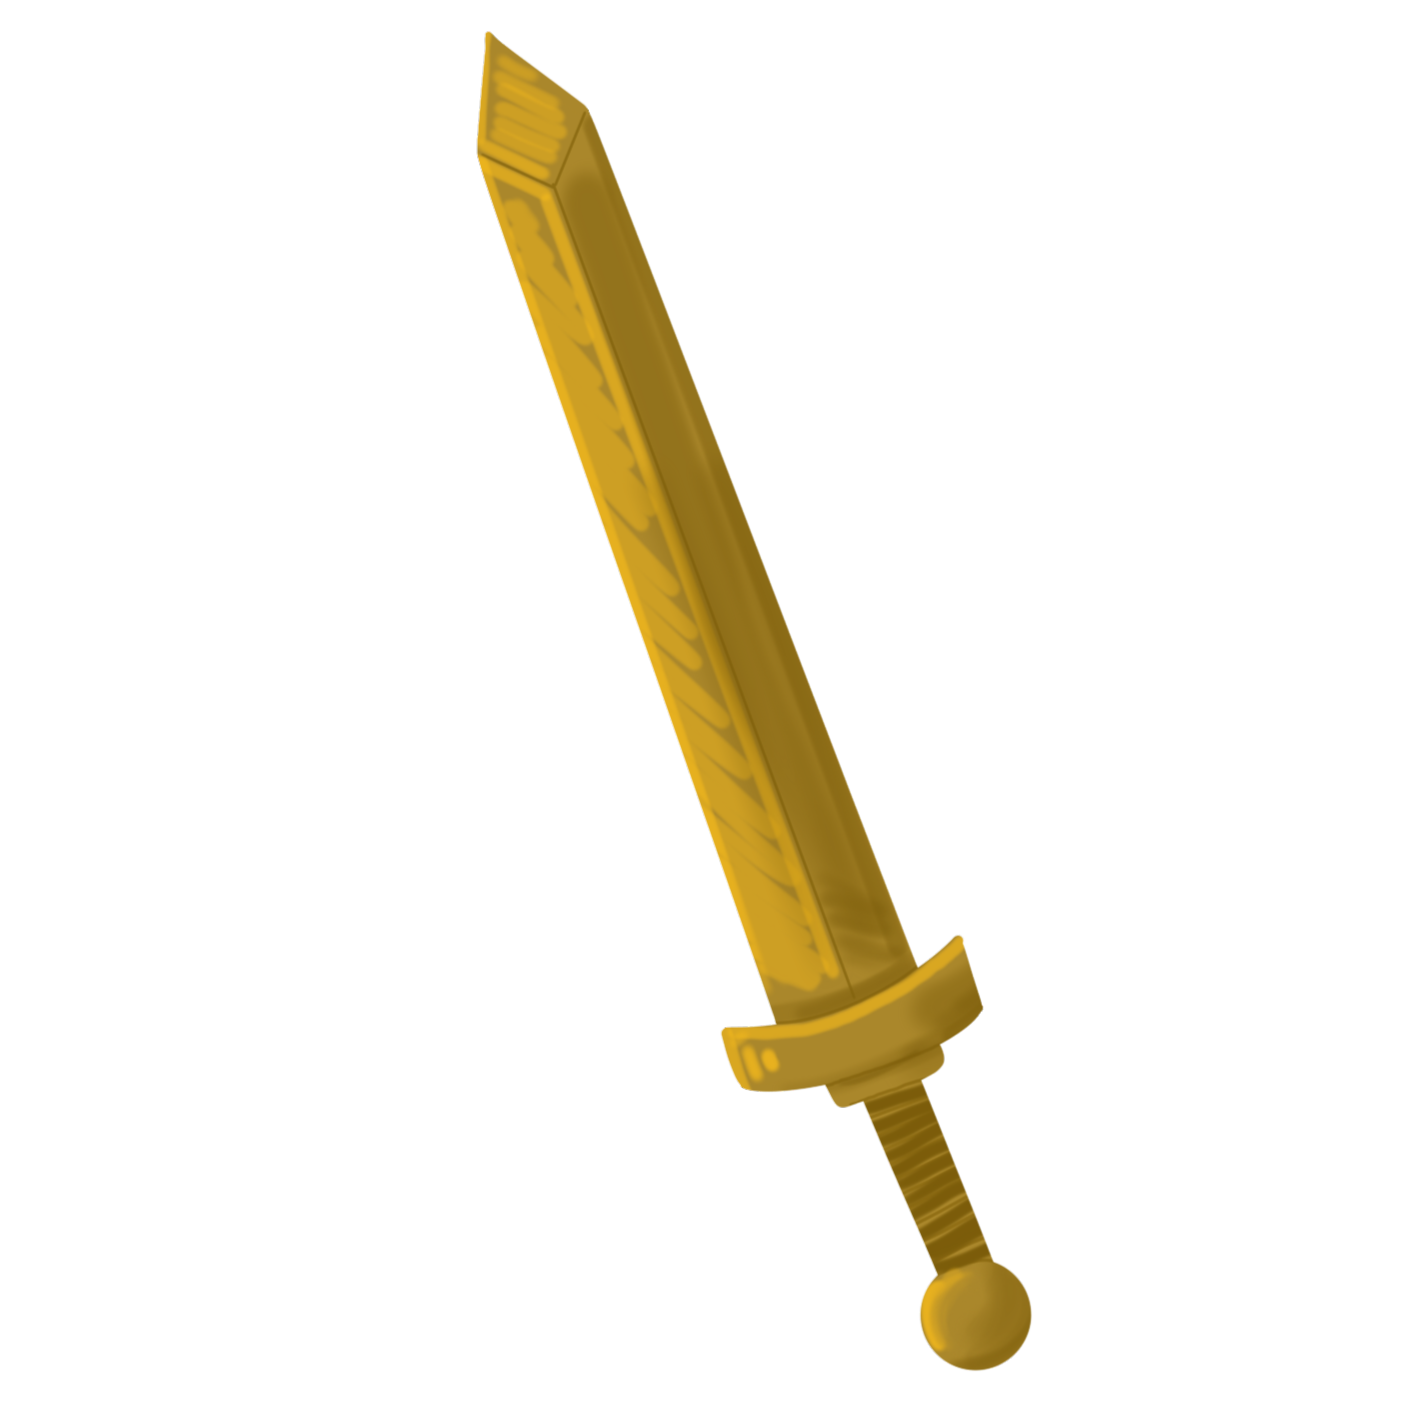
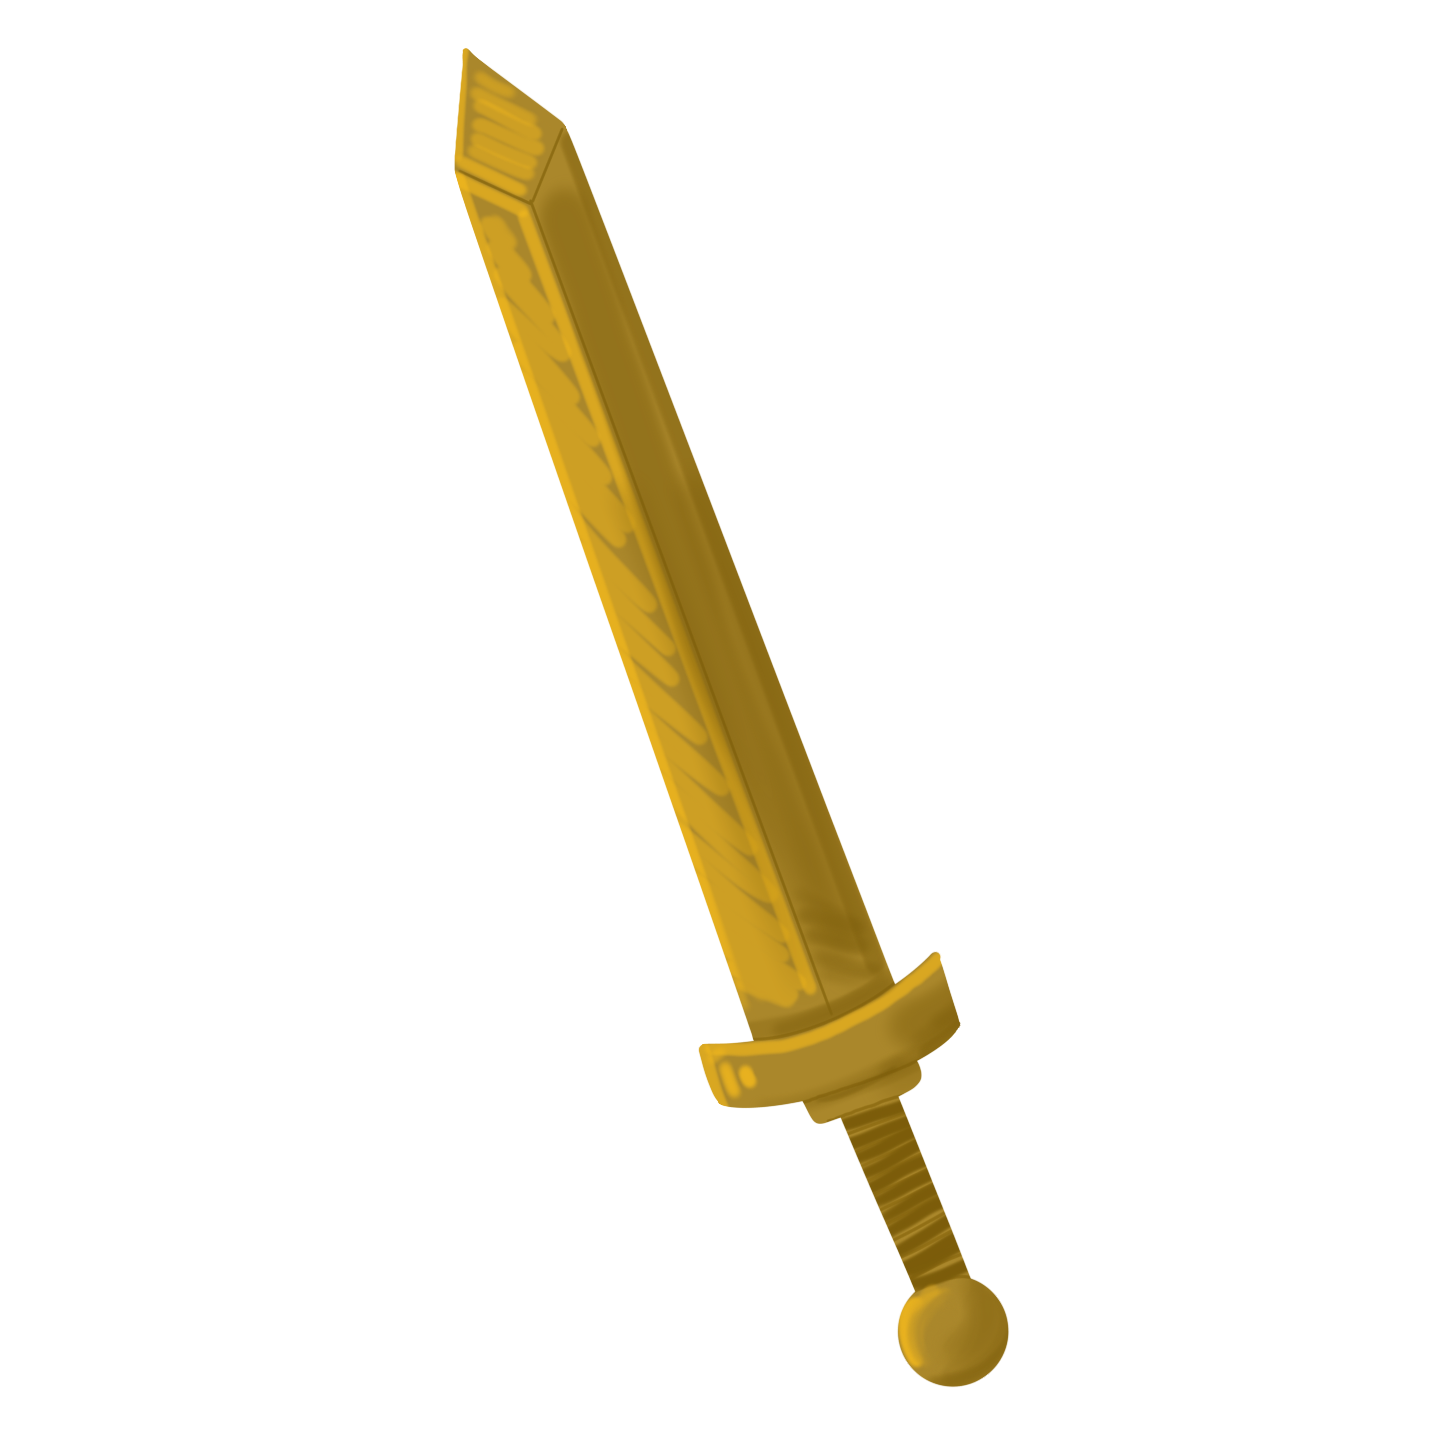
rearrange enemy order

Changed region(s): [[0.3086, 0.0309, 0.7405, 0.9565]]

diff --git a/src/data/gameData.js b/src/data/gameData.js
@@ -31,8 +31,8 @@ export const MINIBOSSES = [
   { id: 'cerberus', name: 'Cerberus', regen: 3, health: 1, boardCount: 3, wordLength: 5, effect: 'Should a dog have three heads?' },
   { id: 'mirror-spirit', name: 'Mirror Spirit', regen: 3, health: 1, wordLength: 5, boardCount: 1, effect: 'The answer (and all your guesses) must be the same forwards and backwards!' },
   { id: 'know-it-all', name: 'Know It All', regen: 3, health: 1, wordLength: 5, boardCount: 1, effect: 'The answer is a word he does not think you will know.' },
-  { id: 'slumbering-giant', name: 'Slumbering Giant', regen: 4, health: 1, wordLength: 5, boardCount: 1, effect: 'You won\'t take any damage from a wrong guess...until you wake her up.' },
-  { id: 'hydra-miniboss', name: 'Hydra', regen: 4, health: 1, wordLength: 5, boardCount: 1, effect: 'Cut off its head!' },
+  { id: 'slumbering-giant', name: 'Slumbering Giant', regen: 3, health: 1, wordLength: 5, boardCount: 1, effect: 'You won\'t take any damage from a wrong guess...until you wake her up.' },
+  { id: 'hydra-miniboss', name: 'Hydra', regen: 3, health: 1, wordLength: 5, boardCount: 2, effect: 'Cut off its head!' },
 ]
 
 export const SHOP_ITEMS = [
@@ -111,14 +111,28 @@ export const SPECIAL_ITEMS = [
 
 export const ALL_ITEMS = [...SHOP_ITEMS, ...SPECIAL_ITEMS]
 
-export const STAGE_SEQUENCE = ['enemy', 'miniboss', 'enemy']
+export const STAGE_SEQUENCE = ['enemy', 'enemy', 'miniboss']
 export const JOURNEY_LENGTH = STAGE_SEQUENCE.length + 1
+
+// Giant Slime splits into more pieces, so its journey is shortened by one regular enemy
+// to compensate for the extra boss rounds.
+const STAGE_SEQUENCE_OVERRIDES = {
+  'giant-slime': ['enemy', 'miniboss'],
+}
+
+export function getStageSequence(bossId) {
+  return STAGE_SEQUENCE_OVERRIDES[bossId] ?? STAGE_SEQUENCE
+}
+
+export function getJourneyLength(bossId) {
+  return getStageSequence(bossId).length + 1
+}
 
 export const BOSSES = [
   {
     id: 'shadow-sorcerer',
     name: 'Shadow Sorcerer',
-    health: 3,
+    health: 2,
     regen: 0,
     wordLength: 5,
     effect: 'A random letter on your first guess is hidden in shadow',
@@ -191,12 +205,11 @@ export const BOSSES = [
   {
     id: 'hydra',
     name: 'Hydra',
-    health: 3,
+    health: 2,
     regen: 0,
     wordLength: 5,
-    boardCount: 2,
+    boardCount: 4,
     rounds: [
-      { boardCount: 2, wordLength: 5 },
       { boardCount: 4, wordLength: 5 },
       { boardCount: 6, wordLength: 5 },
     ],

diff --git a/src/views/GameView.vue b/src/views/GameView.vue
@@ -161,9 +161,9 @@
           <div class="game-center">
             <!-- Journey progress -->
             <div class="text-center mb-2">
-              <p class="game-meta mb-2">Enemy {{ stage + 1 }} of {{ JOURNEY_LENGTH }}</p>
+              <p class="game-meta mb-2">Enemy {{ stage + 1 }} of {{ journeyLength }}</p>
               <div class="journey-dots mb-2">
-                <span v-for="i in JOURNEY_LENGTH" :key="i" class="journey-dot" :class="dotClass(i - 1)"></span>
+                <span v-for="i in journeyLength" :key="i" class="journey-dot" :class="dotClass(i - 1)"></span>
               </div>
             </div>
 
@@ -228,7 +228,7 @@
             </div>
 
             <div v-if="currentBoss" class="mt-3 text-center">
-              <p class="monster-text mb-0"><strong>The realm has been attacked by the {{ currentBoss.name }}:</strong>
+              <p class="game-meta mb-0"><strong>The realm has been attacked by the {{ currentBoss.name }}:</strong>
                 {{ isBossFight && currentBoss.enhancedEffect ? currentBoss.enhancedEffect : currentBoss.effect }}</p>
             </div>
 
@@ -404,6 +404,7 @@
               </div>
             </template>
             <template v-else-if="modal === 'stats'">
+              <button class="modal-close-btn" type="button" aria-label="Close" @click="modal = null">✕</button>
               <h2 class="stats-title">{{ gameResult === 'won' ? 'Quest Complete!' : 'Quest Failed' }}</h2>
               <div class="stats-body">
                 <p class="stats-label">Played as:</p>
@@ -433,7 +434,6 @@
                 <button class="btn btn-press px-5 py-2" @click="copyStats">
                   {{ copied ? '✓ Copied!' : 'Copy to Clipboard' }}
                 </button>
-                <button class="btn btn-reset px-5 py-2 mt-2" @click="restartJourney">Play Again</button>
               </div>
             </template>
             <template v-else-if="modal === 'changeling-test-pick'">
@@ -524,7 +524,7 @@
 
 <script setup>
 import { ref, computed, watch, onMounted, onUnmounted, nextTick } from 'vue'
-import { CLASSES, ENEMIES, MINIBOSSES, BOSSES, SHOP_ITEMS, ALL_ITEMS, STAGE_SEQUENCE, JOURNEY_LENGTH } from '@/data/gameData.js'
+import { CLASSES, ENEMIES, MINIBOSSES, BOSSES, SHOP_ITEMS, ALL_ITEMS, getStageSequence, getJourneyLength } from '@/data/gameData.js'
 import { useGameNavStore } from '@/stores/gameNav.js'
 import BossIntro from '@/components/BossIntro.vue'
 import BossFightIntro from '@/components/BossFightIntro.vue'
@@ -764,7 +764,10 @@ function openShop() {
   modal.value = 'shop'
 }
 
-const isBossFight = computed(() => stage.value >= STAGE_SEQUENCE.length)
+const stageSequence = computed(() => getStageSequence(currentBoss.value?.id))
+const journeyLength = computed(() => getJourneyLength(currentBoss.value?.id))
+
+const isBossFight = computed(() => stage.value >= stageSequence.value.length)
 
 // During the boss fight, show the boss's enhanced ability instead of its base one
 const currentEnemyEffect = computed(() => {
@@ -1161,8 +1164,9 @@ async function handleAllBoardsSolved() {
     lastRegen.value = healAmt
     if (healAmt > 0) await animatePlayerHeal(healAmt)
     gameState.value = 'won'
-    const isLast = stage.value === JOURNEY_LENGTH - 1
-    const isMiniboss = MINIBOSSES.some(m => m.id === currentEnemy.value?.id)
+    const isLast = stage.value === journeyLength.value - 1
+    // Shop opens right before the miniboss stage, regardless of where that falls in stageSequence
+    const nextIsMiniboss = stageSequence.value[stage.value + 1] === 'miniboss'
     if (isLast) {
       gameResult.value = 'won'
       wonDamage.value = 0
@@ -1171,7 +1175,7 @@ async function handleAllBoardsSolved() {
         wonMessage.value = false
         modal.value = 'stats'
       }, 1800)
-    } else if (isMiniboss) {
+    } else if (nextIsMiniboss) {
       wonDamage.value = 0
       wonMessage.value = true
       const needsSecondAbility = playerClass.value === 'changeling' && changelingAbilities.value.length < 2
@@ -1791,7 +1795,7 @@ async function startStage(stageNum) {
     bossWordIndex.value = 0
     screen.value = 'boss-fight-intro'
   } else {
-    const stageType = STAGE_SEQUENCE[stageNum]
+    const stageType = stageSequence.value[stageNum]
     if (stageType === 'miniboss') {
       if (selectedMiniboss.value) {
         // Use the forced miniboss chosen on the dev test screen

diff --git a/src/services/daily.js b/src/services/daily.js
@@ -1,7 +1,7 @@
 import { db } from '@/firebase.js'
 import { doc, getDoc, setDoc, deleteDoc, serverTimestamp } from 'firebase/firestore'
 import {
-  CLASSES, ENEMIES, MINIBOSSES, BOSSES, SHOP_ITEMS, STAGE_SEQUENCE,
+  CLASSES, ENEMIES, MINIBOSSES, BOSSES, SHOP_ITEMS, getStageSequence,
 } from '@/data/gameData.js'
 import { fetchGameWord, fetchWordData } from '@/services/words.js'
 
@@ -72,16 +72,17 @@ async function generateDaily(dateKey) {
     ? pickRandom([...shopPool], 2).map(s => s.id)
     : []
 
+  const stageSequence = getStageSequence(boss.id)
   const stageEnemies = {}
-  for (let i = 0; i < STAGE_SEQUENCE.length; i++) {
-    if (STAGE_SEQUENCE[i] === 'miniboss' && boss.id === 'hydra') {
+  for (let i = 0; i < stageSequence.length; i++) {
+    if (stageSequence[i] === 'miniboss' && boss.id === 'hydra') {
       stageEnemies[i] = 'hydra-miniboss'
     } else {
-      let pool = STAGE_SEQUENCE[i] === 'miniboss'
+      let pool = stageSequence[i] === 'miniboss'
         ? MINIBOSSES.filter(m => m.id !== 'hydra-miniboss')
         : ENEMIES
       // Cerberus's 3-board mechanic conflicts with the Abominable Snowman's letter-freezing
-      if (STAGE_SEQUENCE[i] === 'miniboss' && boss.id === 'abominable-snowman') {
+      if (stageSequence[i] === 'miniboss' && boss.id === 'abominable-snowman') {
         pool = pool.filter(m => m.id !== 'cerberus')
       }
       stageEnemies[i] = pickRandom(pool).id
@@ -98,8 +99,8 @@ async function generateDaily(dateKey) {
   }
 
   const words = {}
-  for (let i = 0; i < STAGE_SEQUENCE.length; i++) {
-    const stageType = STAGE_SEQUENCE[i]
+  for (let i = 0; i < stageSequence.length; i++) {
+    const stageType = stageSequence[i]
     const pool = stageType === 'miniboss' ? MINIBOSSES : ENEMIES
     const enemy = pool.find(e => e.id === stageEnemies[i])
     const stageBoardCount = enemy?.boardCount ?? 1

diff --git a/src/assets/main.css b/src/assets/main.css
@@ -1095,7 +1095,7 @@ body {
 }
 
 .key {
-  height: 35px;
+  height: 40px;
   min-width: 30px;
   padding: 0 5px;
   border: 2px solid transparent;